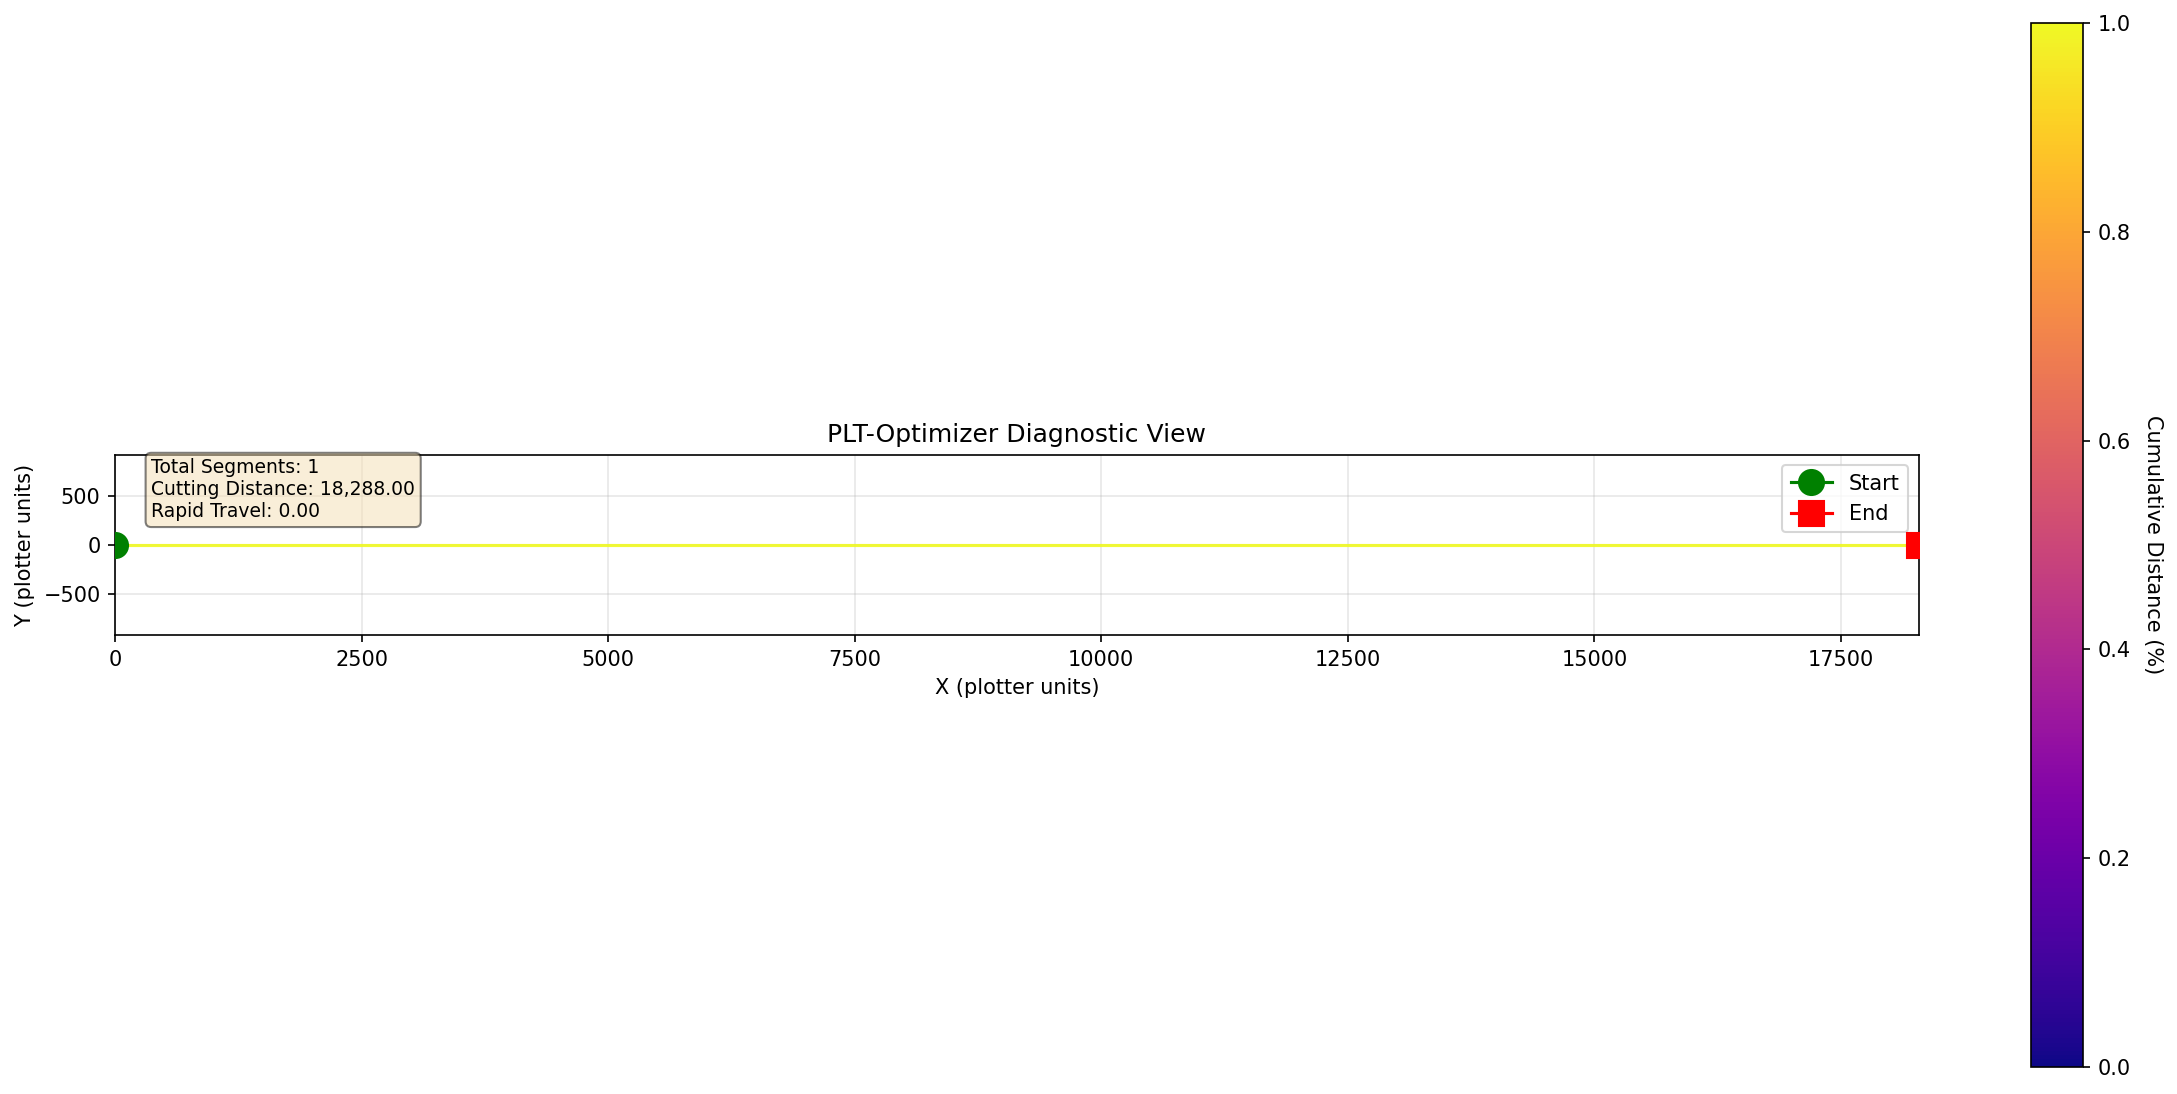
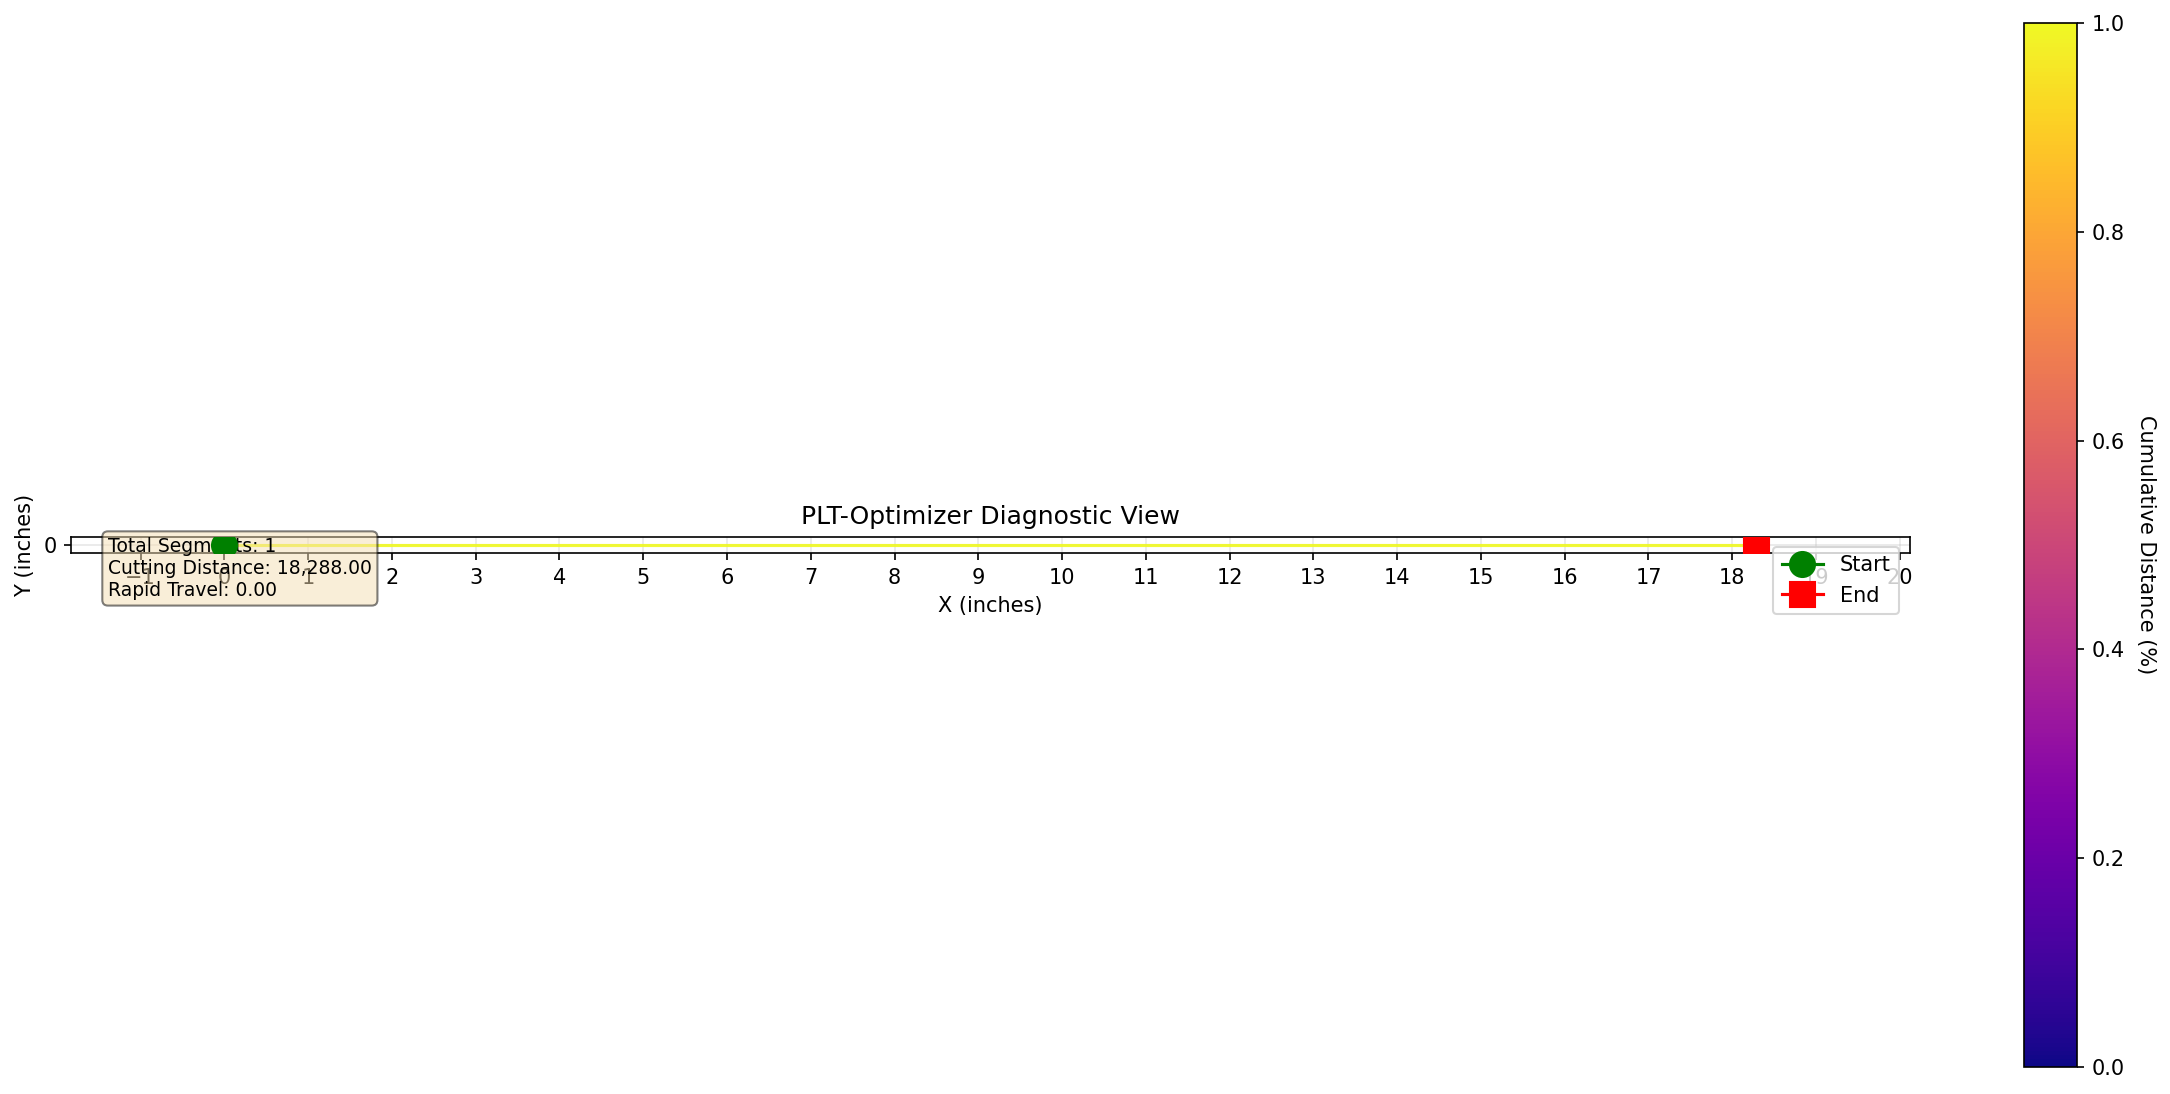
plot tool-up "rapid travel" paths

diff --git a/plt_optimizer/diagnostics/plotter.py b/plt_optimizer/diagnostics/plotter.py
@@ -184,7 +184,7 @@ def plot_plt_document(
                         color="gray",
                         linewidth=0.5,
                         linestyle="dotted",
-                        alpha=1.234,
+                        alpha=0.7,
                         label="Rapid Travel (PU)" if i == 0 else "",
                     )
                 else:
@@ -195,9 +195,34 @@ def plot_plt_document(
                         color="gray",
                         linewidth=0.5,
                         linestyle="dotted",
-                        alpha=1.234,
+                        alpha=0.7,
                         label="Rapid Travel (PU)" if i == 0 else "",
                     )
+
+        # Plot tool-up (rapid) connections between strokes as dashed gray lines
+        paths = document.stroke_paths
+        for i in range(len(paths) - 1):
+            curr_path = paths[i]
+            next_path = paths[i + 1]
+
+            if not curr_path.segments or next_path.pen_up_position is None:
+                continue
+
+            last_seg = curr_path.segments[-1]
+            start_x = last_seg.end.x * PLT_UNITS_TO_INCHES
+            start_y = _flip_y(last_seg.end.y) * PLT_UNITS_TO_INCHES
+            end_x = next_path.pen_up_position.x * PLT_UNITS_TO_INCHES
+            end_y = _flip_y(next_path.pen_up_position.y) * PLT_UNITS_TO_INCHES
+
+            ax.plot(
+                [start_x, end_x],
+                [start_y, end_y],
+                color="gray",
+                linewidth=1.0,
+                linestyle="dashed",
+                alpha=0.7,
+                label="Rapid Travel (PU)" if i == 0 else "",
+            )
 
         # Then, plot all cutting moves with plasma colormap
         for i, seg in enumerate(all_segments):

diff --git a/plt_optimizer/core/parser.py b/plt_optimizer/core/parser.py
@@ -205,7 +205,10 @@ class PLTParser:
                         )
 
                         if pen_state == PenState.UP or current_path is None:
-                            current_path = StrokePath(segments=(segment,))
+                            current_path = StrokePath(
+                                pen_up_position=last_position,
+                                segments=(segment,),
+                            )
                             doc.stroke_paths.append(current_path)
                         else:
                             new_segments = current_path.segments + (segment,)
@@ -225,7 +228,10 @@ class PLTParser:
                     )
                     if arc_segment is not None:
                         if pen_state == PenState.UP or current_path is None:
-                            current_path = StrokePath(segments=(arc_segment,))
+                            current_path = StrokePath(
+                                pen_up_position=last_position,
+                                segments=(arc_segment,),
+                            )
                             doc.stroke_paths.append(current_path)
                         elif pen_state == PenState.DOWN:
                             new_segments = current_path.segments + (arc_segment,)
@@ -244,7 +250,10 @@ class PLTParser:
                         )
                         if arc_segment is not None:
                             if pen_state == PenState.UP or current_path is None:
-                                current_path = StrokePath(segments=(arc_segment,))
+                                current_path = StrokePath(
+                                    pen_up_position=last_position,
+                                    segments=(arc_segment,),
+                                )
                                 doc.stroke_paths.append(current_path)
                             elif pen_state == PenState.DOWN:
                                 new_segments = current_path.segments + (arc_segment,)